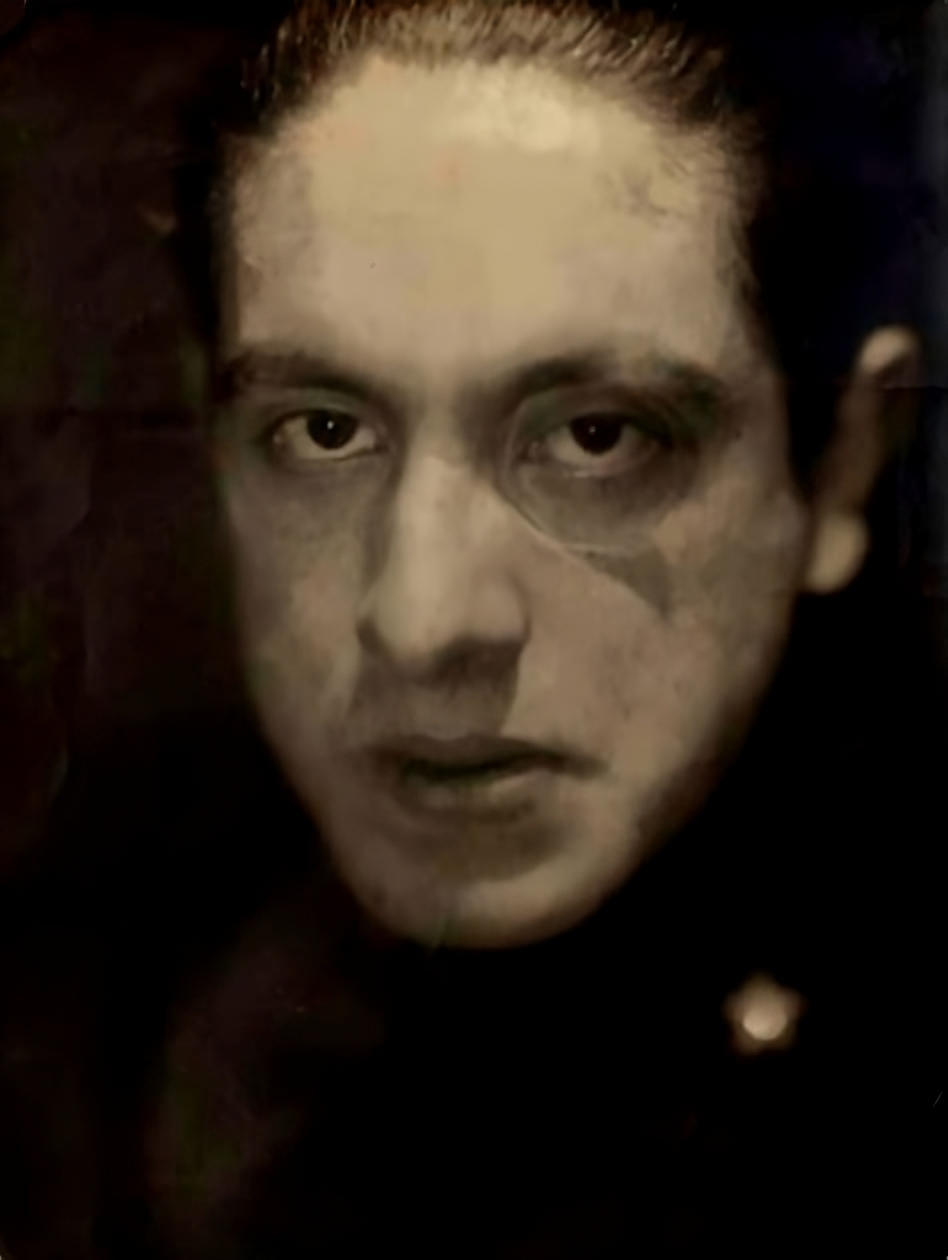
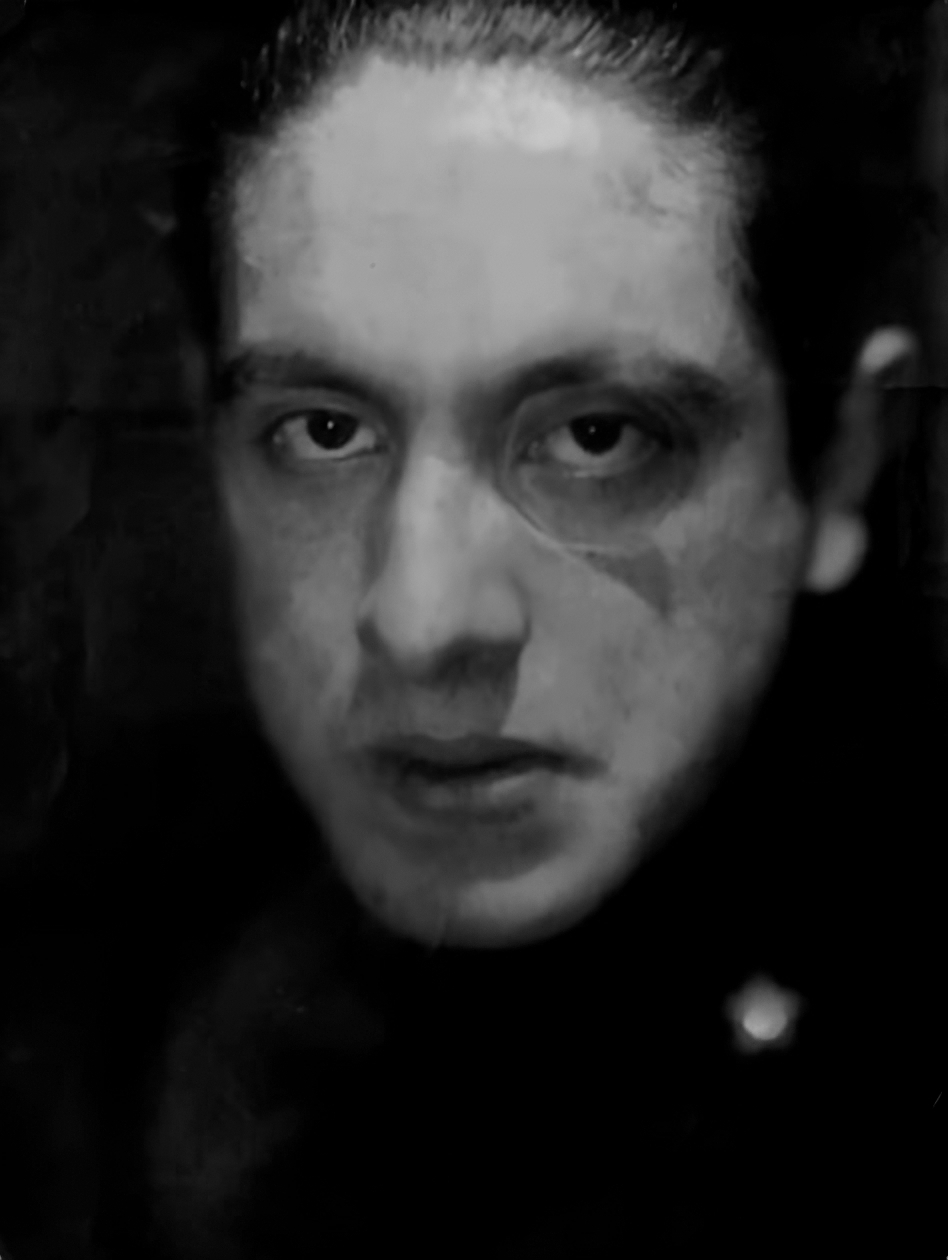
added mishima content

diff --git a/content/frammenti/notte-sole-e-muscoli.md b/content/frammenti/notte-sole-e-muscoli.md
@@ -1,0 +1,62 @@
+---
+coverImage: /frammenti/mishima.jpg
+author: Yukio Mishima
+book: Sole e acciaio
+year: 1970
+section: Prima parte — Sole e acciaio
+title: Notte, sole e muscoli
+description: Le opere letterarie scritte e divulgate in quel periodo erano dominate da un pensiero notturno, ma le loro notti si differenziavano dalle mie per l'assenza totale di estetismo. Quell'epoca tributava una ammirazione maggiore alle notti profonde che a quelle sfumate, e le dense tenebre del mio miele, in cui rimanevo immerso tanto a lungo da fanciullo, agli occhi altrui dovevano apparire del tutto inconsistenti.
+field: Filosofia 
+addedDate: 2023/04/01
+---
+
+# Notte, sole e muscoli
+
+
+Le opere letterarie scritte e divulgate in quel periodo erano dominate da un pensiero notturno, ma le loro notti si differenziavano dalle mie per l'assenza totale di estetismo. Quell'epoca tributava una ammirazione maggiore alle notti profonde che a quelle sfumate, e le dense tenebre del mio miele, in cui rimanevo immerso tanto a lungo da fanciullo, agli occhi altrui dovevano apparire del tutto inconsistenti.
+
+A poco a poco persi la fiducia che durante la guerra avevo nutrito per la notte, e giunsi a credere che forse avevo sempre fatto parte della schiera degli adoratori del sole. Probabilmente era vero. E se così era, dubitai che continuare, come un tempo, a considerare il sole un nemico persistendo nella mia personale, piccola notte sarebbe stato solo un atto di ossequio ai tempi.
+
+Gli uomini dediti alle meditazioni notturne avevano, senza eccezione, la pelle secca, priva di luminosità, e uno stomaco debole. Essi cercavano di avvolgere un'epoca in una sola estesa notte di idee, e negavano in ogni sua forma il sole che avevo veduto. Rifiutavano anche la vita e la morte che avevo scorto in esso. Il sole, infatti, contribuiva a entrambe.
+
+Tralascerò di raccontare, avendone già scritto altrove, come, nel 1952, sulla tolda della nave con la quale compivo il mio primo viaggio all'estero, mi riconciliai con il sole con una stretta di mano. In ogni caso quello fu il mio secondo incontro con lui. Da allora non ho più potuto separarmene. Il sole si collegò all'immagine di quel principio che avrei voluto seguire sopra ogni altro. E lentamente abbronzò la mia pelle, mi impresse il marchio di appartenente a un'altra razza.
+
+Eppure il pensiero non appartiene forse essenzialmente alla notte? La creazione che avviene mediate le parole non si compie ineluttabilmente nella calda tenebra notturna? Non avevo perso l'abitudine di rimanere sveglio a lavorare, e intorno a me vedevo altri che mostravano chiaramente sulla pelle i segni delle meditazioni notturne.
+
+Ma, nuovamente, perché gli uomini cercano la profondità, l'abisso?
+
+Perché il pensiero si preoccupa solo di scendere perpendicolarmente, come un filo di piombo? Perché non riesce, cambiando direzione, a salire verticalmente in alto, verso la superficie?
+
+Il dominio della pelle, che garantisce un'esistenza formale all'essere umano, è abbandonato alla sensibilità, è il più disprezzato; una volta che si era diretto verso la profondità, il pensiero tentava di penetrare negli abissi imperscrutabili insabbiandosi; quando mirava in alto, esso lasciava la forma corporea per allontanarsi librandosi verso la luce di un cielo infinito e ugualmente invisibile; e io non comprendevo le leggi che governavano i suoi movimenti. Se il principio fondamentale del pensiero era mirare all'estremo, sia verso l'alto che verso il basso, mi pareva del tutto irrazionale che non si scoprisse una specie di abisso nella «superficie», che garantisce la consistenza e la forma del nostro corpo, importante frontiera che divide il nostro mondo interno da quello esterno; mi sorprendeva che non si fosse affascinati dalla «profondità della superficie».
+
+Il sole mi stimolava a trascinare il pensiero fuori dalla notte delle sensazioni viscerali, fino al rigonfiamento dei muscoli fasciati da una pelle luminosa. E mi ordinava di costruire una nuova dimora in cui i pensieri, che gradatamente affioravano alla superficie, potessero abitare sicuri e tranquilli. Quella dimora era una pelle abbronzata e luminosa, muscoli possenti, sviluppati e sensibili. Il «pensiero della forma» e il «pensiero della superficie» non erano familiari alla maggior parte degli intellettuali proprio perché richiedevano una simile dimora, perché erano indispensabili simili utensili.
+
+I pensieri del corpo prodotti da organi interni malati si formano mentre l'interessato quasi non ha coscienza se a nascere per primo sia il pensiero, oppure un leggero sintomo patologico di quegli organi. Tuttavia il corpo, in un luogo segreto e invisibile, costruisce e dirige lentamente il proprio pensiero. Inversamente, affinché la superficie visibile a tutti possa creare e dirigere un pensiero epidermico, l'allenamento fisico deve precedere l'esercizio del pensiero. La mia necessità di un allenamento fisico avrebbe potuto essere prevista fin da quando incominciai a essere attratto dalla profondità «epidermica».
+
+Sapevo che solo i muscoli potevano garantire simili pensieri. Chi considererebbe un teorico di cultura fisica debole e malato? Si può perdonare chi manipola i pensieri notturni nel proprio studio, ma esiste qualcosa di più miserevole delle labbra di un pallido intellettuale che disserti sul corpo, per criticarlo o lodarlo? Conoscevo troppo bene quello squallore, e così un giorno, improvvisamente, decisi di acquisire una muscolatura possente.
+
+Vi prego di notare che tutto questo scaturì dal mio «pensiero». Credevo che, come nell'allenamento fisico i muscoli ritenuti involontari si trasformano fino a diventare volontari, così anche l'esercizio del pensiero potesse determinare metamorfosi analoghe. Sia il corpo che il pensiero, per una tendenza ineluttabile che definirei una sorta di legge naturale, possono facilmente cadere nell'automatismo, ma io avevo già sperimentato numerose volte quanto fosse facile deviare un corso d'acqua scavando piccoli canali.
+
+Questo era anche un esempio della corrispondenza tra il nostro corpo e il nostro spirito: il corpo e lo spirito, se governati da un'idea, tendono immediatamente a creare un piccolo universo regolato da un «falso ordine». Benché rappresenti una specie di pausa, questo appare invece come un'attività centripeta quanto mai dinamica. La funzione plastica con cui il corpo e lo spirito creano per un breve intervallo un piccolo universo è simile all'opera di un'illusione; le sensazioni effimere di felicità della nostra vita devono molto a questo «falso ordine». Si potrebbe anche chiamarlo funzione difensiva della vita contro il caos esterno, simile al modo in cui un porcospino si arrotola su se stesso. Ne conseguiva la possiblità di rompere il «falso ordine», costruirne un altro e, capovolgendo questo solido processo formativo della vita, indirizzarlo verso la realizzazione dei propri desideri.
+
+Attuai subito quel «pensiero». Esso, più che un'idea, era un proposito che il sole mi donava giorno per giorno.
+
+Così mi trovai davanti a una massa di acciaio scura, pesante, fredda, come se la quintessenza della notte vi si fosse ancora più condensata.
+
+Quel giorno iniziò una stretta relazione che sarebbe durata dieci anni, tra la massa d'acciaio e me.
+
+La natura di questo acciaio è veramente strana: ogni suo aumento di peso accresceva gradatamente, proprio come su una bilancia, anche la consistenza dei miei muscoli sull'altro piatto. Era come se l'acciaio avesse il dovere di conservare un equilibrio infinitesimale con il peso dei miei muscoli. E, gradualmente, tutte le proprietà dei miei muscoli rafforzarono la loro rassomiglianza con l'acciaio. Questo lento sviluppo somigliava straordinariamente a quel processo di «educazione» mediante il quale si ricostruisce intellettualmente il cervello fornendo all'encefalo prodotti intellettuali sempre più difficili. E poiché continuavo a sognare una superficiale, esemplare forma ideale e classica del corpo quale obiettivo finale dell'educazione, l'intero processo somigliava molto al modello dell'educazione classica.
+
+Ma quale dei due somigliava veramente all'altro? Non cercavo forse con le parole di imitare la forma classica del corpo? La bellezza, per me, tornava sempre sui propri passi. Per me era importante solo un'immagine che esisteva un tempo, o che avrebbe dovuto esistere. La massa d'acciaio, con le proprie operazioni che presentavano variazioni infinite, ricreava un equilibrio classico, adempiva alla funzione di sospingere nuovamente il corpo verso la forma che avrebbe dovuto possedere. I fasci di muscoli, ormai quasi superflui nella vita contemporanea, sono ancora elementi vitali nella struttura del corpo maschile, ma è evidente la loro inutilità nella vita quotidiana: i muscoli non sono necessari, proprio come non è necessaria un'educazione classica per la grande maggioranza degli uomini pratici. I muscoli erano diventati progressivamente simili alla lingua greca antica. Per resuscitare quella lingua morta era necessaria un'educazione impartita dall'acciaio, per ribaltare il silenzio della morte nell'eloquenza della vita era essenziale l'aiuto dell'acciaio.
+
+L'acciaio mi mostrò quale rispondenza esistesse realmente tra lo spirito e il corpo: emozioni deboli corrispondono a muscoli flaccidi, il sentimentalismo a uno stomaco rilassato, la sensibilità a una pelle bianca e delicata; quindi i muscoli sviluppati dovevano corrispondere a un ardente spirito combattivo, uno stomaco teso a un giudizio freddo e cerebrale, una pelle elastica a un carattere risoluto. Voglio precisare che non intendo sostenere che questo valga per la totalità degli uomini. Anche la mia limitata esperienza era sufficiente a farmi concludere che c'erano casi in cui i muscoli sviluppati nascondevano un animo debole. Però, come ho già accennato, per me le parole precedevano la carne, e quindi le immagini di tutte le virtù morali evocate da espressioni come ardente, elastico, risoluto dovevano necessariamente manifestarsi come segni fisici: per raggiungere questo fine era dunque sufficiente che donassi a me stesso, come in un processo educativo, queste caratteristiche esteriori.
+
+Inoltre, al di là di quella forma classica, in me era latente un progetto romantico. L'impulso romantico, che fin da ragazzo era come una corrente sotterranea nella mia mente, assumeva significato solo in quanto distruzione della perfezione classica e si annunciava in me come un preludio in cui fosse presente la totalità dei temi dell'intera sinfonia: prima ancora di avere ottenuto un solo risultato concepivo già una composizione predeterminata. Pur nutrendo un profondo impulso romantico verso la morte, esigevo quale suo strumento un corpo rigorosamente classico; data la mia strana concezione del destino, gli impulsi romantici che mi spingevano alla morte non ebbero modo di realizzarsi per una ragione molto semplice: credevo di non possedere le qualità fisiche necessarie. Per una morte romantica ed eroica erano indispensabili muscoli possenti e scultorei; pensavo che se carni flaccide si fossero trovato al cospetto della morte, non si sarebbe manifestata che una ridicola inadeguatezza. A diciott'anni, benché desiderassi ardentemente una fine violenta, sentivo di non esserne degno. Infatti non possedevo muscoli che si addicessero a una morte drammatica. E feriva profondamente il mio orgoglio romantico l'essere sopravvissuto fino al termine della guerra grazie a quella inadeguatezza.
+
+Comunque quell'intrico di idee contorte era semplicemente il groviglio del preludio di un essere che non aveva ancora realizzato nulla. Sarebbe bastato che un giorno riuscissi a realizzare qualcosa, o a distruggere qualcosa. E fu proprio l'acciaio a darmi la chiave di tutto.
+
+Molti uomini sviluppano la propria formazione intellettuale fino a un certo punto e si considerano soddisfatti, mentre a me l'intelletto non apparve mai sotto forma di cultura innocua; dovetti invece scoprire che mie era stato elargito unicamente come un mezzo per vivere, come un'arma. Dunque la disciplina fisica era diventata indispensabile alla mia educazione; proprio come un uomo che, possedendo per vivere soltanto il proprio corpo, e dovendo dare addio alla gioventù, tenti disperatamente di acquisire un'istruzione.
+
+Grazie all'acciaio appresi molte verità sui muscoli. Era quella la conoscenza più spontanea, che né i libri né l'esperienza del mondo potrebbero assolutamente donare. I muscoli, oltre a essere una forma, erano anche una forza, e la responsabilità della sua direzione era infinitesimamente suddivisa tra tutti i fasci di muscoli, proprio come una luce creata nella carne.
+
+Nulla, maggiormente che il concetto di forma che racchiude una forza, concordava con la definizione di opera d'arte che sognavo da tempo: doveva essere una splendida, radiosa opera «organica».
